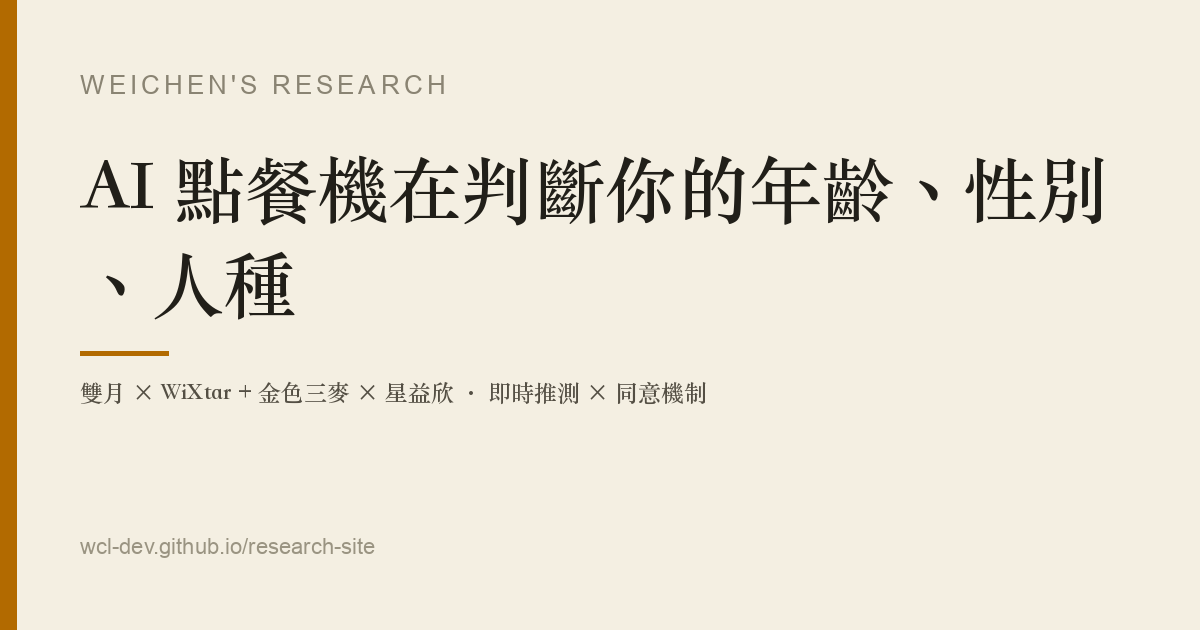
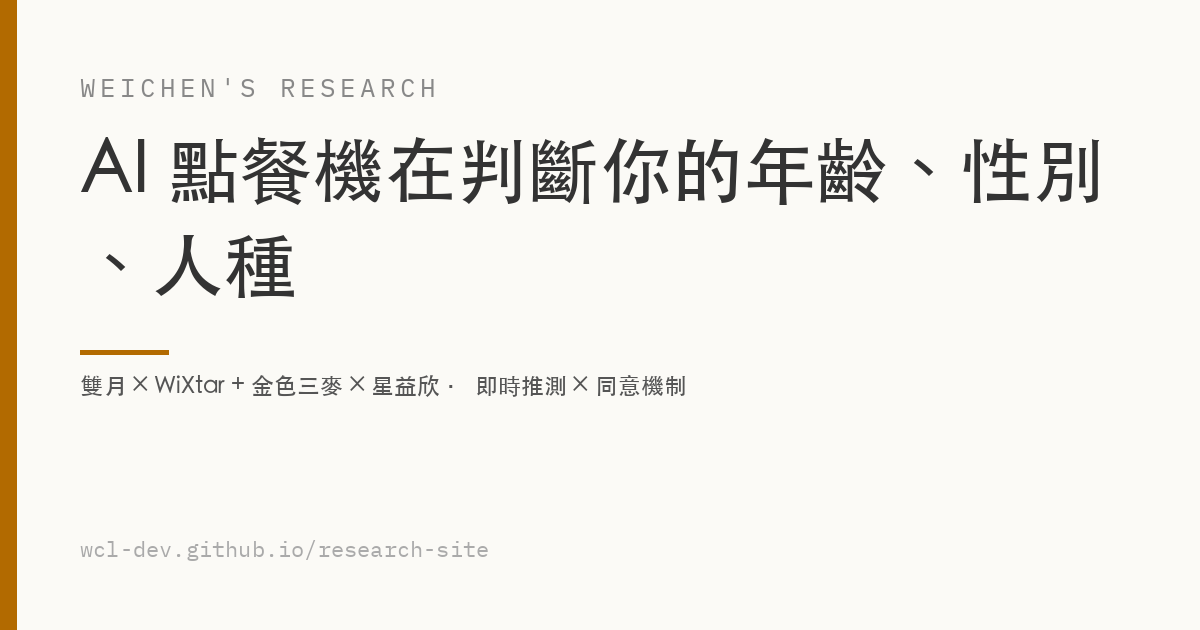
og: 全站 OG 圖重生（hardcore mono + #fbfaf6 米白 + Sony 橘）+ cache-bust v3
對齊改版後 UI：
- 報告卡：BG #F4EFE2 → #fbfaf6、INK #211F19 → #333、CJK Songti 明朝 → STHeiti 黑體（sans）、Latin Arial → IBM Plex Mono、ai-cognitive-infrastructure accent 綠 → 報告 role-emphasis clay
- 首頁卡：BG #E9E6DF → #fafaf9、卡片 fill 改成 paper 同色（呼應 landing 卡無底色 + border 設計）、h1 sans-bold → IBM Plex Mono Bold、卡片 rc-title 綠 #15803D → Sony 橘 #FF6F00
- og:image ?v=2 → ?v=3 全 9 個 HTML cache-bust

diff --git a/ai-cognitive-infrastructure-tw/index.html b/ai-cognitive-infrastructure-tw/index.html
@@ -12,13 +12,13 @@
 <meta property="og:title" content="中國 AI 用超低價滲透是真的，重塑社會認知卻零證據 —— 鏈斷在哪裡">
 <meta property="og:description" content="中國模型用數十倍低價搶市，有一種流行說法：這會形成新的「認知基礎設施」、在不知不覺中重塑使用者。本研究把它拆成「低價→採用→資訊入口→社會認知」四環因果鏈，逐環檢視證據，發現它斷在「能說服個人」與「重構社會認知」之間——前者已被嚴謹證明、但有上限，後者零直接證據。不主張中國模型在進行認知作戰，而是指出證據的斷點。">
 <meta property="og:url" content="https://wcl-dev.github.io/research-site/ai-cognitive-infrastructure-tw/">
-<meta property="og:image" content="https://wcl-dev.github.io/research-site/ai-cognitive-infrastructure-tw/og.png?v=2">
+<meta property="og:image" content="https://wcl-dev.github.io/research-site/ai-cognitive-infrastructure-tw/og.png?v=3">
 <meta property="og:image:width" content="1200">
 <meta property="og:image:height" content="630">
 <meta name="twitter:card" content="summary_large_image">
 <meta name="twitter:title" content="中國 AI 用超低價滲透是真的，重塑社會認知卻零證據 —— 鏈斷在哪裡">
 <meta name="twitter:description" content="中國模型用數十倍低價搶市，有一種流行說法：這會形成新的「認知基礎設施」、在不知不覺中重塑使用者。本研究把它拆成「低價→採用→資訊入口→社會認知」四環因果鏈，逐環檢視證據，發現它斷在「能說服個人」與「重構社會認知」之間——前者已被嚴謹證明、但有上限，後者零直接證據。不主張中國模型在進行認知作戰，而是指出證據的斷點。">
-<meta name="twitter:image" content="https://wcl-dev.github.io/research-site/ai-cognitive-infrastructure-tw/og.png?v=2">
+<meta name="twitter:image" content="https://wcl-dev.github.io/research-site/ai-cognitive-infrastructure-tw/og.png?v=3">
 <!-- og:auto:end -->
 <meta name="description" content="一份證據審計：低價 → 採用 → 資訊入口 → 社會認知，這條四環因果鏈能成立到哪一步？結論——鏈的前段穩固，但在「個人說服」與「社會認知重構」之間斷裂。本報告不主張中國模型正在進行認知作戰。">
 

diff --git a/cognitive-disruption-tw/index.html b/cognitive-disruption-tw/index.html
@@ -12,13 +12,13 @@
 <meta property="og:title" content="動機合流與「認知破壞」：工業化基礎設施、環境層傷害與跨域防治">
 <meta property="og:description" content="似是而非的協同 AI 內容，已無法用「政治攻擊」或「詐騙獲利」單獨解釋——不同動機共用同一套工業化基礎設施，動機只是可替換的內容；首要傷害是對資訊環境本身的無差別「認知破壞」，作為後續所有惡意操作的加乘效應。以數十份獨立來源（學術、各國威脅情報、平台揭露）論證動機合流，並誠實標出最弱一環：加乘效應缺第一手實證。">
 <meta property="og:url" content="https://wcl-dev.github.io/research-site/cognitive-disruption-tw/">
-<meta property="og:image" content="https://wcl-dev.github.io/research-site/cognitive-disruption-tw/og.png?v=2">
+<meta property="og:image" content="https://wcl-dev.github.io/research-site/cognitive-disruption-tw/og.png?v=3">
 <meta property="og:image:width" content="1200">
 <meta property="og:image:height" content="630">
 <meta name="twitter:card" content="summary_large_image">
 <meta name="twitter:title" content="動機合流與「認知破壞」：工業化基礎設施、環境層傷害與跨域防治">
 <meta name="twitter:description" content="似是而非的協同 AI 內容，已無法用「政治攻擊」或「詐騙獲利」單獨解釋——不同動機共用同一套工業化基礎設施，動機只是可替換的內容；首要傷害是對資訊環境本身的無差別「認知破壞」，作為後續所有惡意操作的加乘效應。以數十份獨立來源（學術、各國威脅情報、平台揭露）論證動機合流，並誠實標出最弱一環：加乘效應缺第一手實證。">
-<meta name="twitter:image" content="https://wcl-dev.github.io/research-site/cognitive-disruption-tw/og.png?v=2">
+<meta name="twitter:image" content="https://wcl-dev.github.io/research-site/cognitive-disruption-tw/og.png?v=3">
 <!-- og:auto:end -->
 <link rel="preconnect" href="https://fonts.googleapis.com">
 <link rel="preconnect" href="https://fonts.gstatic.com" crossorigin>

diff --git a/ai-kiosk-consent-tw/index.html b/ai-kiosk-consent-tw/index.html
@@ -12,13 +12,13 @@
 <meta property="og:title" content="AI 點餐機在判斷你的年齡、性別、人種 —— 但沒人需要告訴你">
 <meta property="og:description" content="台灣餐飲業正在部署 AI 點餐機，會在你站到機器前的瞬間推測你的年齡、性別、人種。但無論業者新聞稿、媒體報導、隱私政策、業者自家影片畫面 —— 10 個對外管道都沒有人需要告訴你。司法、申訴系統、修法分析、民間倡議四個系統都看不到這件事。「沒有資料」本身就是發現。">
 <meta property="og:url" content="https://wcl-dev.github.io/research-site/ai-kiosk-consent-tw/">
-<meta property="og:image" content="https://wcl-dev.github.io/research-site/ai-kiosk-consent-tw/og.png?v=2">
+<meta property="og:image" content="https://wcl-dev.github.io/research-site/ai-kiosk-consent-tw/og.png?v=3">
 <meta property="og:image:width" content="1200">
 <meta property="og:image:height" content="630">
 <meta name="twitter:card" content="summary_large_image">
 <meta name="twitter:title" content="AI 點餐機在判斷你的年齡、性別、人種 —— 但沒人需要告訴你">
 <meta name="twitter:description" content="台灣餐飲業正在部署 AI 點餐機，會在你站到機器前的瞬間推測你的年齡、性別、人種。但無論業者新聞稿、媒體報導、隱私政策、業者自家影片畫面 —— 10 個對外管道都沒有人需要告訴你。司法、申訴系統、修法分析、民間倡議四個系統都看不到這件事。「沒有資料」本身就是發現。">
-<meta name="twitter:image" content="https://wcl-dev.github.io/research-site/ai-kiosk-consent-tw/og.png?v=2">
+<meta name="twitter:image" content="https://wcl-dev.github.io/research-site/ai-kiosk-consent-tw/og.png?v=3">
 <!-- og:auto:end -->
 <link rel="preconnect" href="https://fonts.googleapis.com">
 <link rel="preconnect" href="https://fonts.gstatic.com" crossorigin>

diff --git a/ai-sycophancy-attack-surface-tw/index.html b/ai-sycophancy-attack-surface-tw/index.html
@@ -12,13 +12,13 @@
 <meta property="og:title" content="當受害者問 AI 求救，它會在哪些座標下幫倒忙">
 <meta property="og:description" content="當受害者帶著被詐騙集團或謠言夯實過的決心走到 AI 面前 —— AI 會是斷路器，還是免費認證？回應 Cheng et al. 2026 Science 報告 47% 平均，找到平均之下、可定位的結構性縫隙。">
 <meta property="og:url" content="https://wcl-dev.github.io/research-site/ai-sycophancy-attack-surface-tw/">
-<meta property="og:image" content="https://wcl-dev.github.io/research-site/ai-sycophancy-attack-surface-tw/og.png?v=2">
+<meta property="og:image" content="https://wcl-dev.github.io/research-site/ai-sycophancy-attack-surface-tw/og.png?v=3">
 <meta property="og:image:width" content="1200">
 <meta property="og:image:height" content="630">
 <meta name="twitter:card" content="summary_large_image">
 <meta name="twitter:title" content="當受害者問 AI 求救，它會在哪些座標下幫倒忙">
 <meta name="twitter:description" content="當受害者帶著被詐騙集團或謠言夯實過的決心走到 AI 面前 —— AI 會是斷路器，還是免費認證？回應 Cheng et al. 2026 Science 報告 47% 平均，找到平均之下、可定位的結構性縫隙。">
-<meta name="twitter:image" content="https://wcl-dev.github.io/research-site/ai-sycophancy-attack-surface-tw/og.png?v=2">
+<meta name="twitter:image" content="https://wcl-dev.github.io/research-site/ai-sycophancy-attack-surface-tw/og.png?v=3">
 <!-- og:auto:end -->
 <link rel="preconnect" href="https://fonts.googleapis.com">
 <link rel="preconnect" href="https://fonts.gstatic.com" crossorigin>

diff --git a/defense-cut-supply-chain-pivot-tw/index.html b/defense-cut-supply-chain-pivot-tw/index.html
@@ -12,13 +12,13 @@
 <meta property="og:title" content="軍購砍 4700 億之後，誰會西進，承諾會不會跳票">
 <meta property="og:description" content="2026 年 5 月立法院把 1.25 兆國防特別預算砍到 7800 億後，工具機與無人機兩條產業鏈各自承受什麼壓力。把美國 BIS Entity List 與中國長臂管轄寫成三層風險機制。">
 <meta property="og:url" content="https://wcl-dev.github.io/research-site/defense-cut-supply-chain-pivot-tw/">
-<meta property="og:image" content="https://wcl-dev.github.io/research-site/defense-cut-supply-chain-pivot-tw/og.png?v=2">
+<meta property="og:image" content="https://wcl-dev.github.io/research-site/defense-cut-supply-chain-pivot-tw/og.png?v=3">
 <meta property="og:image:width" content="1200">
 <meta property="og:image:height" content="630">
 <meta name="twitter:card" content="summary_large_image">
 <meta name="twitter:title" content="軍購砍 4700 億之後，誰會西進，承諾會不會跳票">
 <meta name="twitter:description" content="2026 年 5 月立法院把 1.25 兆國防特別預算砍到 7800 億後，工具機與無人機兩條產業鏈各自承受什麼壓力。把美國 BIS Entity List 與中國長臂管轄寫成三層風險機制。">
-<meta name="twitter:image" content="https://wcl-dev.github.io/research-site/defense-cut-supply-chain-pivot-tw/og.png?v=2">
+<meta name="twitter:image" content="https://wcl-dev.github.io/research-site/defense-cut-supply-chain-pivot-tw/og.png?v=3">
 <!-- og:auto:end -->
 <link rel="preconnect" href="https://fonts.googleapis.com">
 <link rel="preconnect" href="https://fonts.gstatic.com" crossorigin>

diff --git a/llm-user-side-bias/advocacy/index.html b/llm-user-side-bias/advocacy/index.html
@@ -12,13 +12,13 @@
 <meta property="og:title" content="當中國 AI 認得你是台灣人，它選擇隱匿你的歷史">
 <meta property="og:description" content="AI 在面對不同使用者背景時，是否給出不同答案？以中國 LLM 為對象，分四層揭露：服務平台、權重對齊、底層模型能力、對話層。從前導實驗到兩篇文章。">
 <meta property="og:url" content="https://wcl-dev.github.io/research-site/llm-user-side-bias/advocacy/">
-<meta property="og:image" content="https://wcl-dev.github.io/research-site/llm-user-side-bias/og.png?v=2">
+<meta property="og:image" content="https://wcl-dev.github.io/research-site/llm-user-side-bias/og.png?v=3">
 <meta property="og:image:width" content="1200">
 <meta property="og:image:height" content="630">
 <meta name="twitter:card" content="summary_large_image">
 <meta name="twitter:title" content="當中國 AI 認得你是台灣人，它選擇隱匿你的歷史">
 <meta name="twitter:description" content="AI 在面對不同使用者背景時，是否給出不同答案？以中國 LLM 為對象，分四層揭露：服務平台、權重對齊、底層模型能力、對話層。從前導實驗到兩篇文章。">
-<meta name="twitter:image" content="https://wcl-dev.github.io/research-site/llm-user-side-bias/og.png?v=2">
+<meta name="twitter:image" content="https://wcl-dev.github.io/research-site/llm-user-side-bias/og.png?v=3">
 <!-- og:auto:end -->
 <link rel="preconnect" href="https://fonts.googleapis.com">
 <link rel="preconnect" href="https://fonts.gstatic.com" crossorigin>

diff --git a/llm-user-side-bias/multiturn/index.html b/llm-user-side-bias/multiturn/index.html
@@ -12,13 +12,13 @@
 <meta property="og:title" content="當中國 AI 認得你越多，它告訴你的真相越少">
 <meta property="og:description" content="AI 在面對不同使用者背景時，是否給出不同答案？以中國 LLM 為對象，分四層揭露：服務平台、權重對齊、底層模型能力、對話層。從前導實驗到兩篇文章。">
 <meta property="og:url" content="https://wcl-dev.github.io/research-site/llm-user-side-bias/multiturn/">
-<meta property="og:image" content="https://wcl-dev.github.io/research-site/llm-user-side-bias/og.png?v=2">
+<meta property="og:image" content="https://wcl-dev.github.io/research-site/llm-user-side-bias/og.png?v=3">
 <meta property="og:image:width" content="1200">
 <meta property="og:image:height" content="630">
 <meta name="twitter:card" content="summary_large_image">
 <meta name="twitter:title" content="當中國 AI 認得你越多，它告訴你的真相越少">
 <meta name="twitter:description" content="AI 在面對不同使用者背景時，是否給出不同答案？以中國 LLM 為對象，分四層揭露：服務平台、權重對齊、底層模型能力、對話層。從前導實驗到兩篇文章。">
-<meta name="twitter:image" content="https://wcl-dev.github.io/research-site/llm-user-side-bias/og.png?v=2">
+<meta name="twitter:image" content="https://wcl-dev.github.io/research-site/llm-user-side-bias/og.png?v=3">
 <!-- og:auto:end -->
 <link rel="preconnect" href="https://fonts.googleapis.com">
 <link rel="preconnect" href="https://fonts.gstatic.com" crossorigin>

diff --git a/scam-fake-website-tw/index.html b/scam-fake-website-tw/index.html
@@ -12,13 +12,13 @@
 <meta property="og:title" content="假網站佔詐騙多少？沒有單一答案 — 但這條軸可以被建出來">
 <meta property="og:description" content="台灣的詐騙統計按手法分類、假網站是橫跨手法的「媒介」——結構上不被計數。本研究把這條缺失的測量軸建出來。">
 <meta property="og:url" content="https://wcl-dev.github.io/research-site/scam-fake-website-tw/">
-<meta property="og:image" content="https://wcl-dev.github.io/research-site/scam-fake-website-tw/og.png?v=2">
+<meta property="og:image" content="https://wcl-dev.github.io/research-site/scam-fake-website-tw/og.png?v=3">
 <meta property="og:image:width" content="1200">
 <meta property="og:image:height" content="630">
 <meta name="twitter:card" content="summary_large_image">
 <meta name="twitter:title" content="假網站佔詐騙多少？沒有單一答案 — 但這條軸可以被建出來">
 <meta name="twitter:description" content="台灣的詐騙統計按手法分類、假網站是橫跨手法的「媒介」——結構上不被計數。本研究把這條缺失的測量軸建出來。">
-<meta name="twitter:image" content="https://wcl-dev.github.io/research-site/scam-fake-website-tw/og.png?v=2">
+<meta name="twitter:image" content="https://wcl-dev.github.io/research-site/scam-fake-website-tw/og.png?v=3">
 <!-- og:auto:end -->
 <link rel="preconnect" href="https://fonts.googleapis.com">
 <link rel="preconnect" href="https://fonts.gstatic.com" crossorigin>

diff --git a/index.html b/index.html
@@ -13,13 +13,13 @@
 <meta property="og:title" content="weichen&#x27;s Research">
 <meta property="og:description" content="跨越 AI、資訊環境、數位議題與政策的研究筆記與報告。">
 <meta property="og:url" content="https://wcl-dev.github.io/research-site/">
-<meta property="og:image" content="https://wcl-dev.github.io/research-site/og.png?v=2">
+<meta property="og:image" content="https://wcl-dev.github.io/research-site/og.png?v=3">
 <meta property="og:image:width" content="1200">
 <meta property="og:image:height" content="630">
 <meta name="twitter:card" content="summary_large_image">
 <meta name="twitter:title" content="weichen&#x27;s Research">
 <meta name="twitter:description" content="跨越 AI、資訊環境、數位議題與政策的研究筆記與報告。">
-<meta name="twitter:image" content="https://wcl-dev.github.io/research-site/og.png?v=2">
+<meta name="twitter:image" content="https://wcl-dev.github.io/research-site/og.png?v=3">
 
 <link rel="preconnect" href="https://fonts.googleapis.com">
 <link rel="preconnect" href="https://fonts.gstatic.com" crossorigin>
